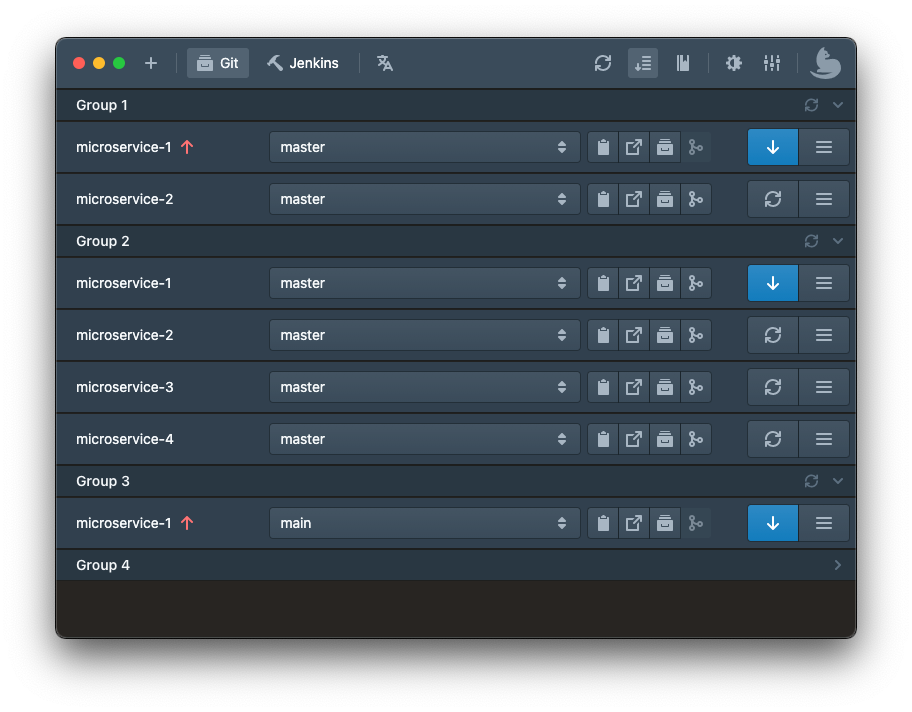
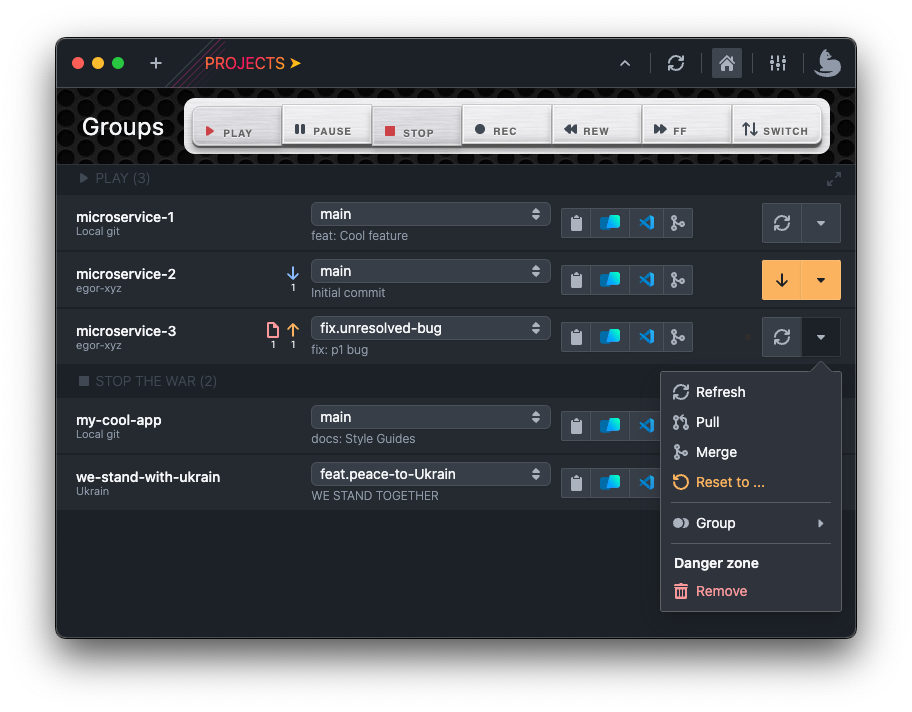
feat: New images

diff --git a/src/components/Downloads/Downloads.tsx b/src/components/Downloads/Downloads.tsx
@@ -1,6 +1,6 @@
 import { AnchorButton, Icon } from '@blueprintjs/core';
 
-import { DevKittyLogo } from 'assets/svg';
+import { DevkittyLogo } from 'assets/svg';
 import { useVersion } from 'store/useVersions';
 
 import css from './Downloads.module.scss';
@@ -16,7 +16,7 @@ export const Downloads = () => {
           className={css.image}
           src="/images/GitHub-App-Demo.png"
         />
-        <DevKittyLogo className={css.logo} />
+        <DevkittyLogo className={css.logo} />
         <div className={css.title}>devkitty</div>
         <div className={css.version}>
           <Icon icon={'confirm'} />

diff --git a/src/components/Header/Header.tsx b/src/components/Header/Header.tsx
@@ -2,7 +2,7 @@
 import type { FC } from 'react';
 import { motion } from 'framer-motion';
 
-import { DevKittyLogo } from 'assets/svg';
+import { DevkittyLogo } from 'assets/svg';
 import { useVersion } from 'store/useVersions';
 
 import css from './Header.module.scss';
@@ -19,7 +19,7 @@ export const Header: FC = () => {
   return (
     <div className={css.root}>
       <div className={css.wrap}>
-        <DevKittyLogo className={css.logo} />
+        <DevkittyLogo className={css.logo} />
 
         <a
           className={css.logoText}

diff --git a/src/components/Title/Title.tsx b/src/components/Title/Title.tsx
@@ -1,12 +1,12 @@
 import { FC } from 'react';
 
-import { DevKittyLogo } from 'assets/svg';
+import { DevkittyLogo } from 'assets/svg';
 
 import css from './Title.module.scss';
 
 export const Title: FC = () => (
   <div className={css.title}>
-    <DevKittyLogo className={css.logo} />
+    <DevkittyLogo className={css.logo} />
     <div className={css.titleName}>
       <span>devkit</span>
       <div className={css.flip}>

diff --git a/src/assets/svg/index.ts b/src/assets/svg/index.ts
@@ -1,1 +1,1 @@
-export { ReactComponent as DevKittyLogo } from './devKitty.svg';
+export { ReactComponent as DevkittyLogo } from './devkitty-logo.svg';
